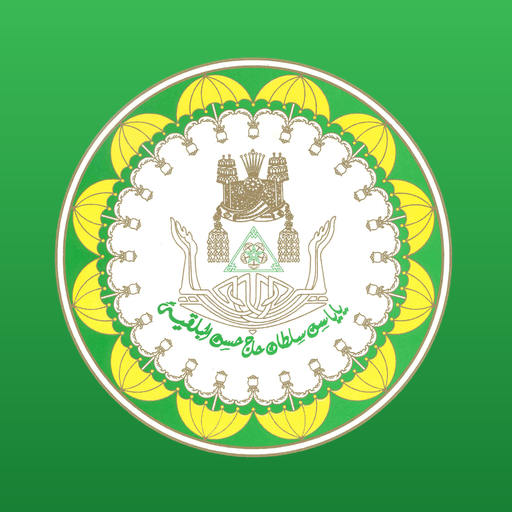
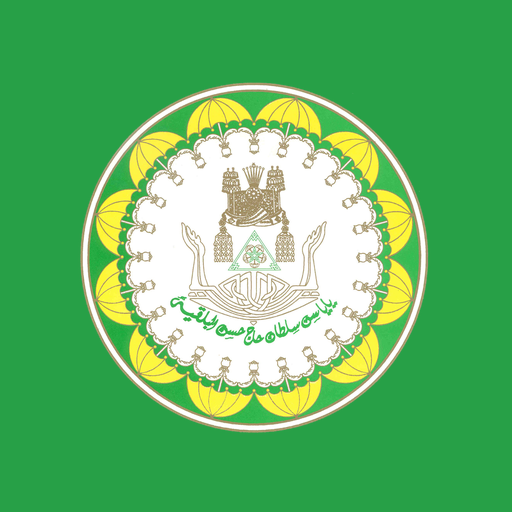
Add files via upload

diff --git a/sw.js b/sw.js
@@ -1,4 +1,4 @@
-const CACHE = 'syshhb-portal-v6';
+const CACHE = 'syshhb-portal-v7';
 const FILES = ['./', './index.html', './manifest.webmanifest', './icon-192.png'];
 self.addEventListener('install', e => { e.waitUntil(caches.open(CACHE).then(c => c.addAll(FILES))); self.skipWaiting(); });
 self.addEventListener('activate', e => {

diff --git a/index.html b/index.html
@@ -3,6 +3,7 @@
 <head>
 <meta charset="utf-8">
 <meta name="viewport" content="width=device-width, initial-scale=1, viewport-fit=cover">
+<style>html{background:#27a047}</style>
 <title>SYSHHB Portal System</title>
 <meta name="theme-color" content="#27a047">
 <link rel="manifest" href="manifest.webmanifest">
